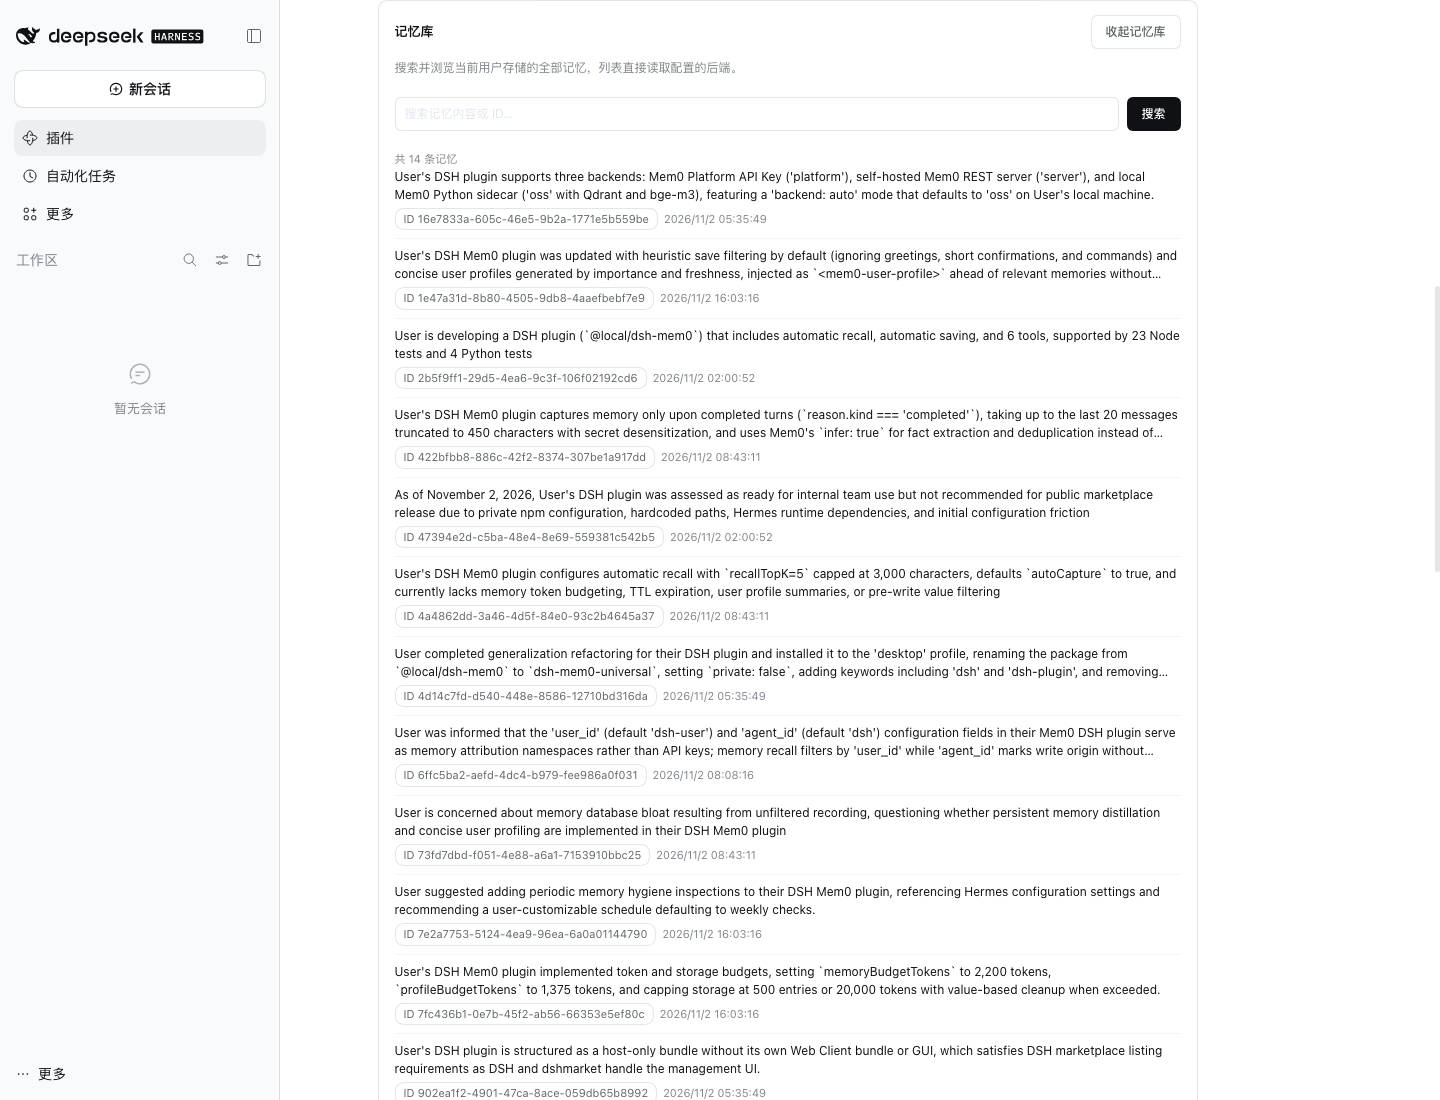
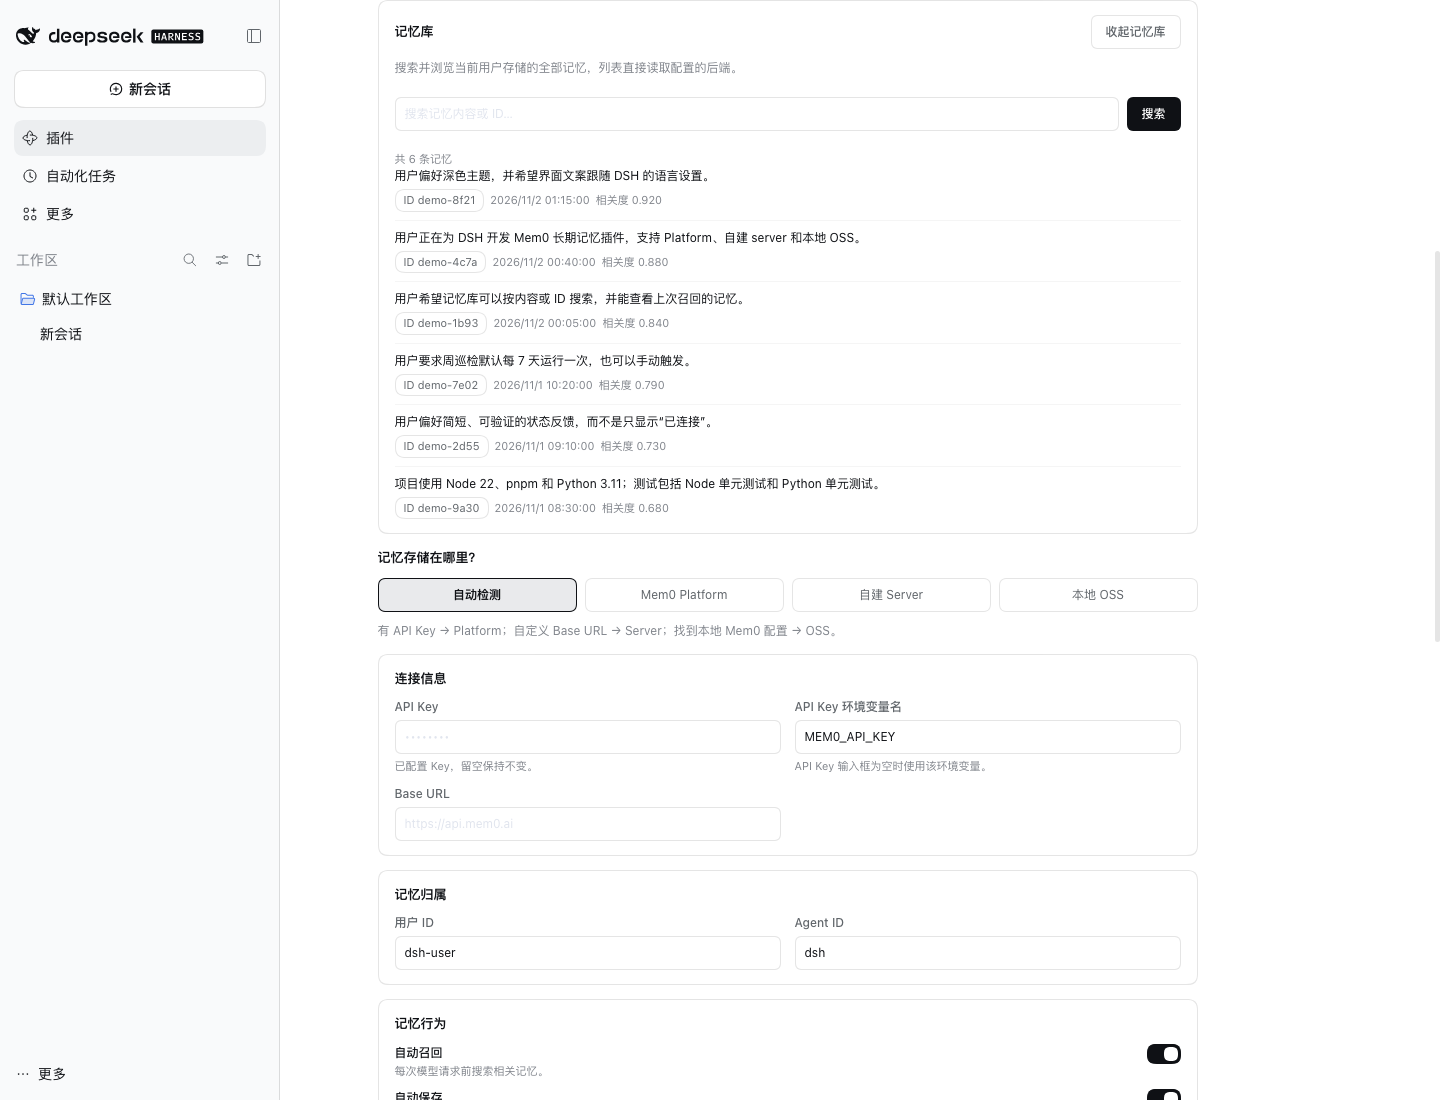
Use synthetic demo memories in library screenshot

diff --git a/MARKETPLACE.md b/MARKETPLACE.md
@@ -109,8 +109,10 @@ in the profile patch. Screenshots are optional and fall back to README images.
   removals, 0 deleted, 0 failed.
 - Memory library rendered in the real Plugins page: “查看全部记忆” opened a
   searchable list of all 14 real OSS memories; searching `Node` returned
-  `显示 1 / 共 1 条`. The recall preview was exercised with a synthetic activity
-  payload and rendered the recalled texts, IDs, count and latency in Chinese.
+  `显示 1 / 共 1 条`. The published screenshot uses synthetic demo memories to
+  avoid exposing personal data. The recall preview was exercised with a
+  synthetic activity payload and rendered the recalled texts, IDs, count and
+  latency in Chinese.
 - Screenshots in `assets/screenshots/` were captured from the real DSH Plugins
   page at 1440×1100 (the maintenance crop is 1440×957; the recall card is
   820×303).
